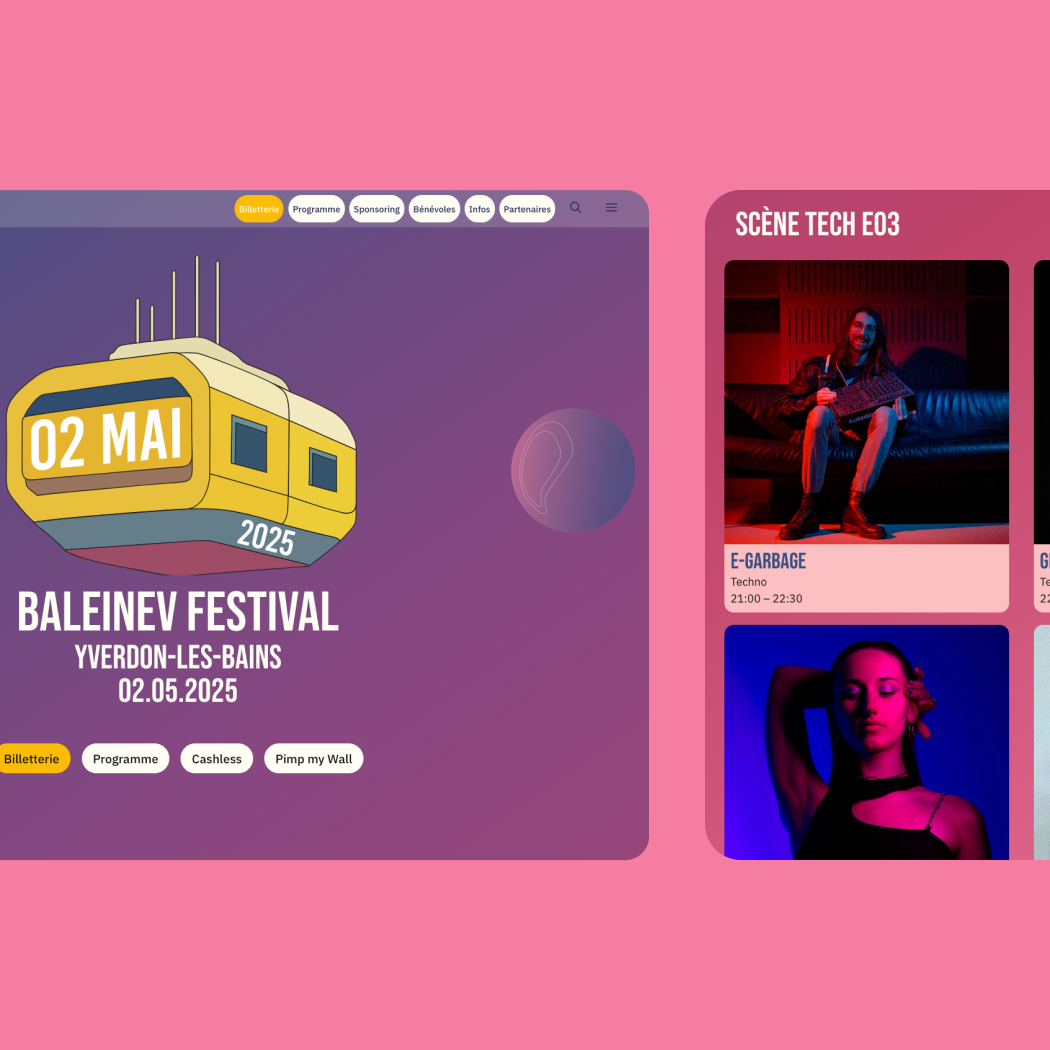
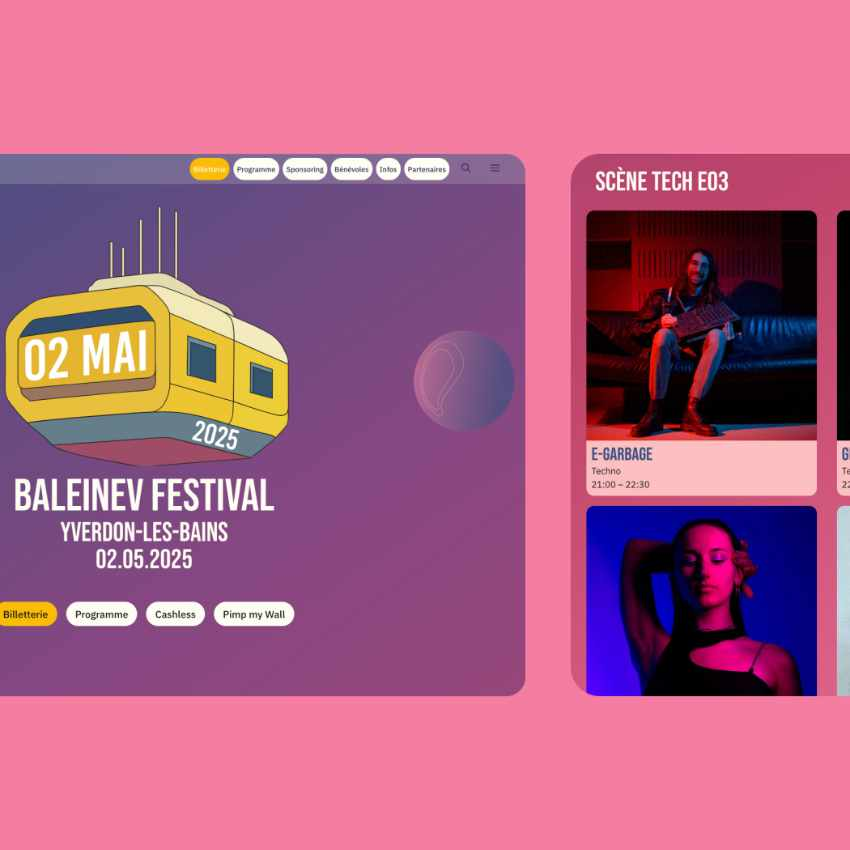
optimize images

diff --git a/app/data/projectData.tsx b/app/data/projectData.tsx
@@ -22,23 +22,23 @@ export const projects: Project[] = [
     description: 'Le rapport annuel de l\'empire est un projet d\'expèrimentation autour de la visulation de donnée dans l\'univers de Star Wars. Il montre les pertes subies ainsi que les personnages et espèces avec lesquelles traite l\'empire. \n Ce projet se présente comme un rapport diégétique qui serait présenté au sein même de l\'univers Star Warnes.',
     images: [
       {
-        src: '/img/projects/datavis/02.gif',
+        src: '/img/projects/datavis/02.jpg',
         alt: 'Empire annual report hero section'
       },
       {
-        src: '/img/projects/datavis/01.png',
+        src: '/img/projects/datavis/01.jpg',
         alt: 'Financial dashboard visualization'
       },
       {
-        src: '/img/projects/datavis/04.png',
+        src: '/img/projects/datavis/04.jpg',
         alt: 'Mobile responsive view of the report'
       },
       {
-        src: '/img/projects/datavis/03.png',
+        src: '/img/projects/datavis/03.jpg',
         alt: 'Mobile responsive view of the report'
       },
        {
-        src: '/img/projects/datavis/05.png',
+        src: '/img/projects/datavis/05.jpg',
         alt: 'Mobile responsive view of the report'
       }
     ],
@@ -56,19 +56,19 @@ export const projects: Project[] = [
         alt: 'E-commerce homepage featuring product grid'
       },
       {
-        src: '/img/projects/coachlab/mockup.jpg',
+        src: '/img/projects/coachlab/mockup_small.jpg',
         alt: 'Product detail page with gallery'
       },
        {
-        src: '/img/projects/coachlab/27.jpg',
+        src: '/img/projects/coachlab/27_small.jpg',
         alt: 'Product detail page with gallery'
       },
        {
-        src: '/img/projects/coachlab/28.jpg',
+        src: '/img/projects/coachlab/28_small.jpg',
         alt: 'Product detail page with gallery'
       },
        {
-        src: '/img/projects/coachlab/29.jpg',
+        src: '/img/projects/coachlab/29_small.jpg',
         alt: 'Product detail page with gallery'
       }
     ],
@@ -87,19 +87,19 @@ export const projects: Project[] = [
         alt: 'E-commerce homepage featuring product grid'
       },
       {
-        src: '/img/projects/terravaud/onboarding.jpg',
+        src: '/img/projects/terravaud/onboarding_small.jpg',
         alt: 'Product detail page with gallery'
       },
        {
-        src: '/img/projects/terravaud/creation_parcours.jpg',
+        src: '/img/projects/terravaud/creation_parcours_small.jpg',
         alt: 'Product detail page with gallery'
       },
        {
-        src: '/img/projects/terravaud/map2.jpg',
+        src: '/img/projects/terravaud/map2_small.jpg',
         alt: 'Product detail page with gallery'
       },
       {
-        src: '/img/projects/terravaud/brandboard.jpg',
+        src: '/img/projects/terravaud/Brandboard_small.jpg',
         alt: 'Product detail page with gallery'
       },
       
@@ -114,19 +114,19 @@ export const projects: Project[] = [
     description: 'Le Baleinev Festival est le festival estudiantin de la Heig-vd. Son site web doit permettre l\'accès aux informations vitales, la programmation, la billeterie. Il doit aussi représenter fidèlement la ligne graphique de l\'édition.',
     images: [
       {
-        src: '/img/projects/baleinev/baleinev.gif',
+        src: '/img/projects/baleinev/baleinev_01.jpg',
         alt: 'E-commerce homepage featuring product grid'
       },
       {
-        src: '/img/projects/baleinev/474474932_18483635644033504_119499071726526965_n.jpg',
+        src: '/img/projects/baleinev/474474932_18483635644033504_119499071726526965_n_small.jpg',
         alt: 'E-commerce homepage featuring product grid'
       },
        {
-        src: '/img/projects/baleinev/mobile.jpg',
+        src: '/img/projects/baleinev/mobile_small.jpg',
         alt: 'E-commerce homepage featuring product grid'
       },
        {
-        src: '/img/projects/baleinev/insta.jpg',
+        src: '/img/projects/baleinev/insta_small.jpg',
         alt: 'E-commerce homepage featuring product grid'
       },
        {

diff --git a/app/components/Other.tsx b/app/components/Other.tsx
@@ -4,12 +4,12 @@ import { div } from "three/tsl"
 export default function Other() {
     return (
         <section className="flex flex-col gap-4 max-w-4xl">
-            <h2 className="h2">D'autres trucs que j'ai fait</h2>
+            <h2 className="h2">D'autres projets sur lesquels j'ai travaillé</h2>
             <div className="flex flex-col md:flex-row gap-4">
                 <div className="rounded-2xl overflow-auto  flex-1">
                     <Image
                         className="md:object-cover w-full h-full aspect-square object-top"
-                        src={'/img/others/ophtalmique.png'}
+                        src={'/img/others/ophtalmique_small.jpg'}
                         alt={''}
                         quality={100}
                         width={100}
@@ -62,7 +62,7 @@ export default function Other() {
                 <div className="rounded-2xl overflow-auto aspect-square flex-1">
                     <Image
                         className="md:object-cover w-full h-full aspect-square object-top object-top"
-                        src={'/img/others/tournoi.jpg'}
+                        src={'/img/others/tournoi_small.jpg'}
                         alt={''}
                         quality={100}
                         width={100}
